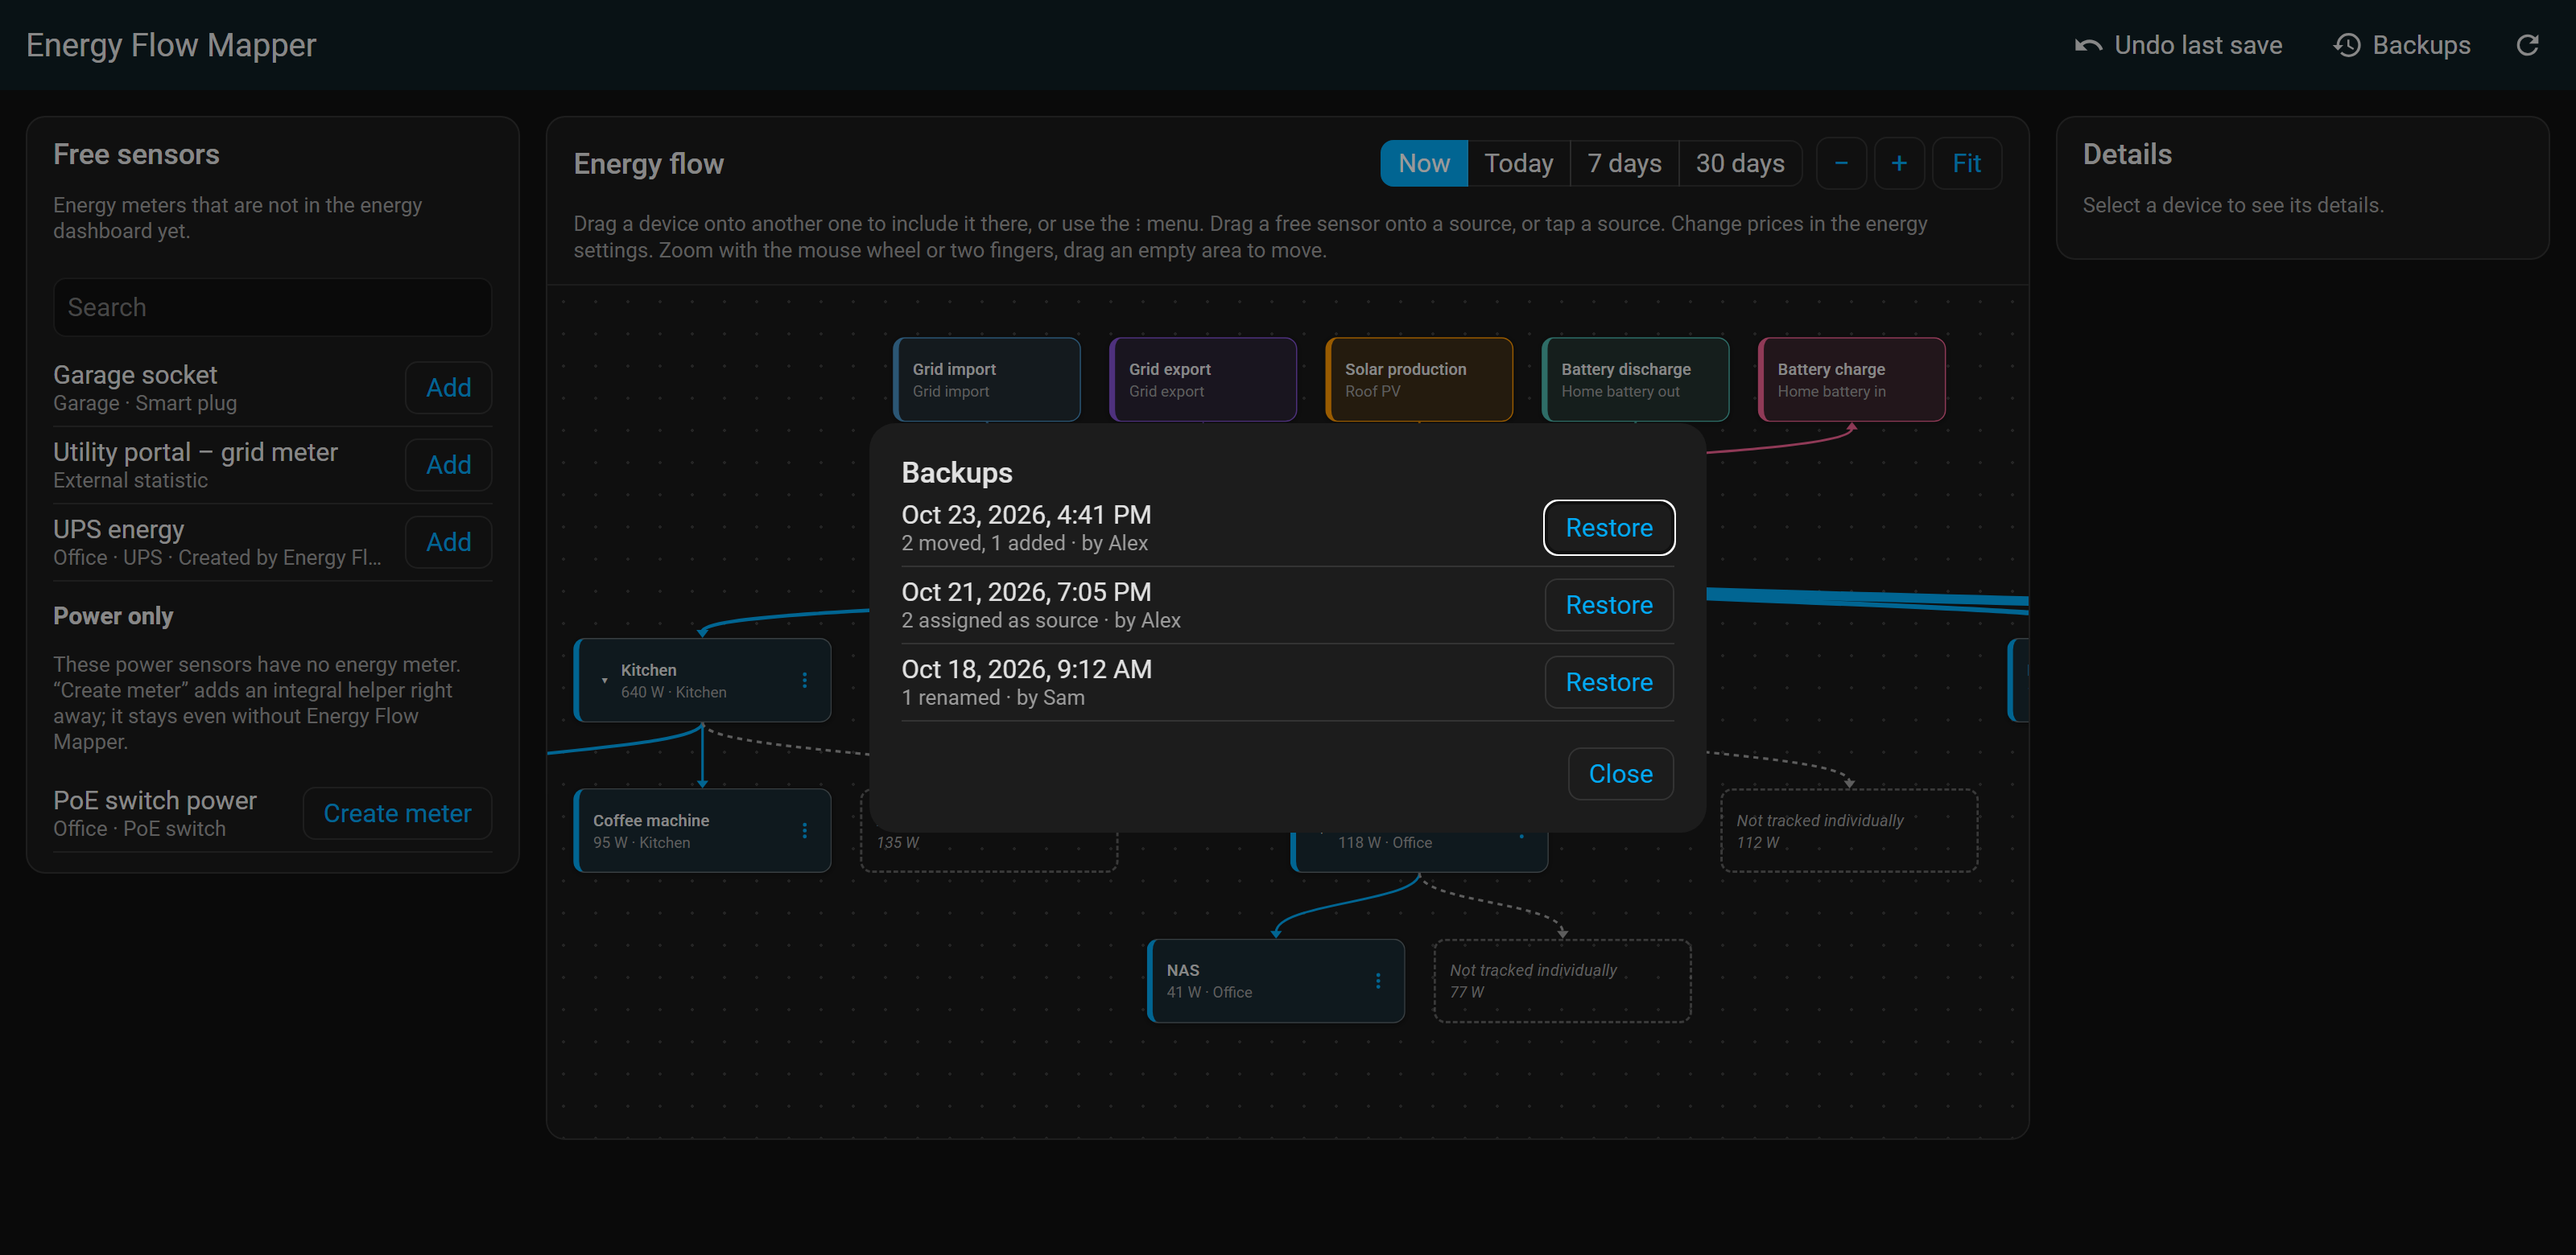
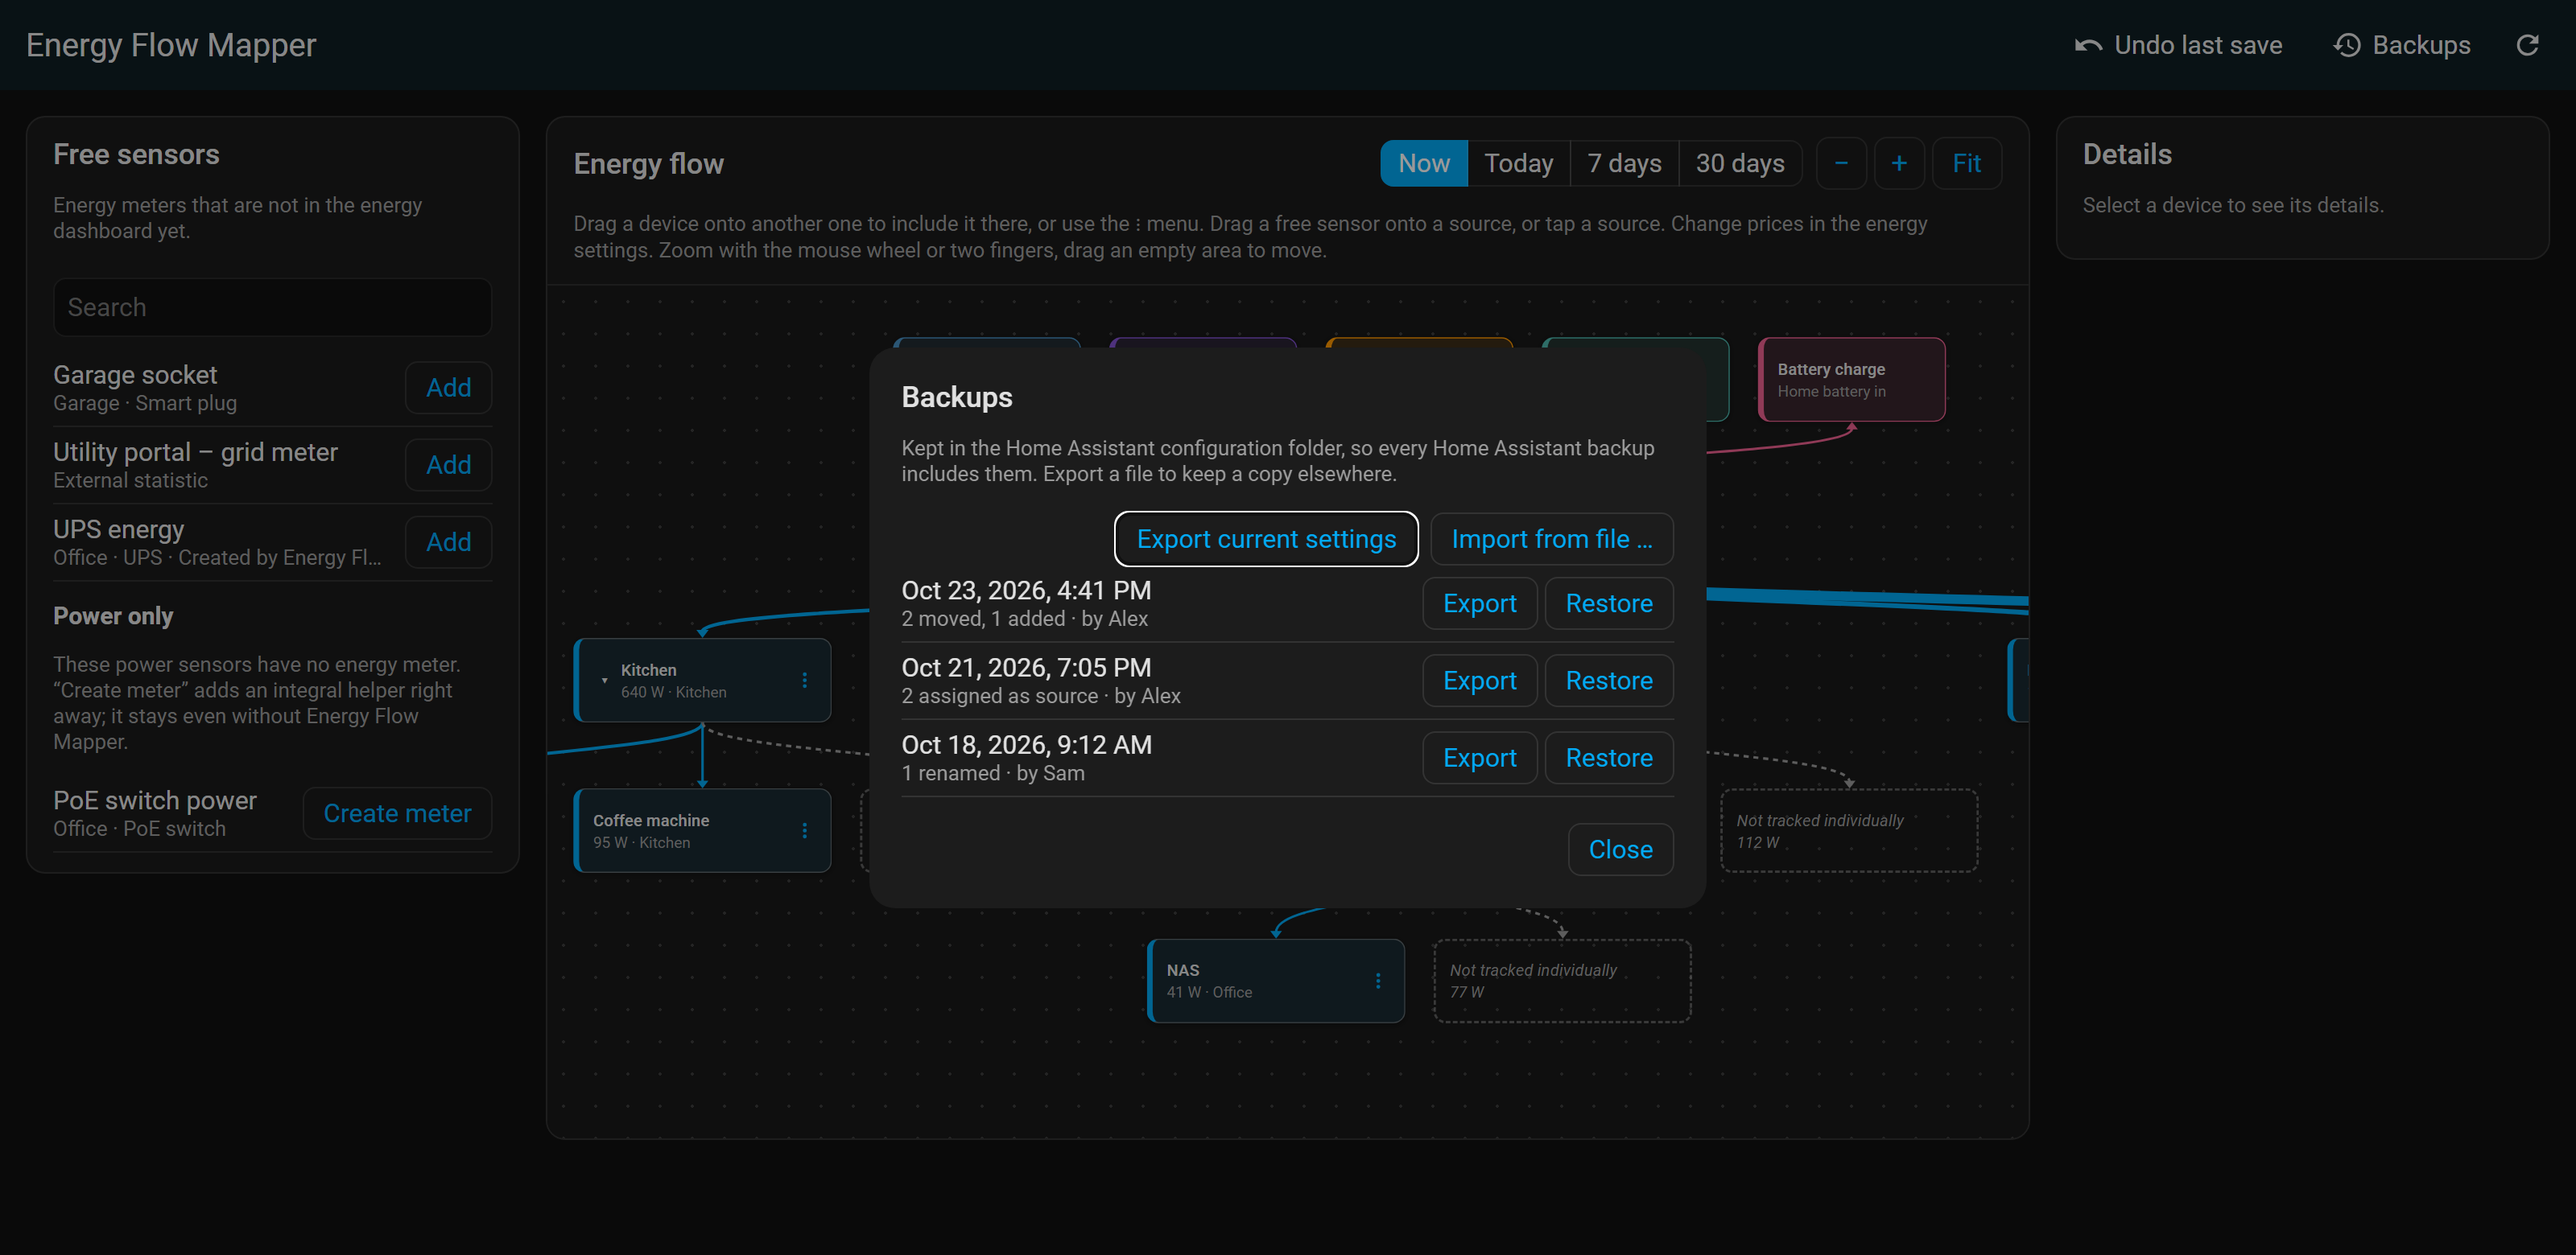
Document backups, export and import

diff --git a/SPEC.md b/SPEC.md
@@ -56,7 +56,8 @@ README-Abgrenzung: «Not another energy card – a visual editor that maps your 
 | Gas- und Wasser-Quellen bearbeiten | Phase 4, nach v0.1.0 (Wunsch des Maintainers vom 2026-10-23); bis dahin nur Anzeige |
 | Nicht erfasster Verbrauch | **Nur im Panel**, keine eigenen Sensoren. Sensoren erst, wenn jemand danach fragt |
 | Plausibilitäts-Warnung | wenn untergeordnete Geräte zusammen **> 5 % und > 0,1 kWh** mehr verbrauchen als das übergeordnete |
-| Sicherungen | die letzten **20** |
+| Sicherungen | Standard die letzten **20**, in den Optionen der Integration **5 bis 100** einstellbar (Wunsch des Maintainers vom 2026-10-24). Ablage fest in `.storage`, **kein** frei wählbarer Speicherort |
+| Export/Import | Aktuelle Einstellungen und jede Sicherung als JSON-Datei exportieren; Import geht durch Prüfung, Bestätigung und Sicherung wie jedes Speichern (2026-10-24) |
 | Mehrere übergeordnete Geräte | **Nicht möglich**, HA erlaubt genau eines (`included_in_stat` ist ein String) |
 
 ---
@@ -285,8 +286,10 @@ Reine Funktionen ohne HA-Imports, Input sind die Listen aus §3.
 
 - Store `.storage/energy_flow_mapper.backups`, `STORAGE_VERSION = 1`.
 - Vor jedem Speichern wird der alte Inhalt der geänderten Schlüssel gesichert, mit Zeitstempel, HA-Benutzer und kurzer Zusammenfassung (z. B. «3 verschoben, 1 hinzugefügt»).
-- Es bleiben die letzten 20 Sicherungen, ältere werden beim Anlegen einer neuen gelöscht.
-- «Rückgängig» im Panel stellt die letzte Sicherung wieder her. Die Liste «Sicherungen» erlaubt jede ältere. Auch das Wiederherstellen legt vorher eine Sicherung an.
+- Es bleiben die letzten 20 Sicherungen (Option `max_backups`, 5–100, Optionen der Integration mit Neuladen des Eintrags). Ältere werden beim Anlegen einer neuen gelöscht; wird die Zahl verkleinert, gleich beim Laden.
+- «Rückgängig» im Panel stellt die letzte Sicherung wieder her. Die Liste «Sicherungen» erlaubt jede ältere. Auch das Wiederherstellen und der Import legen vorher eine Sicherung an.
+- **Kein frei wählbarer Speicherort** (entschieden 2026-10-24): `.storage` wird von HA sicher geschrieben und ist Teil jedes HA-Backups; ein externer Pfad brächte Ausfälle (nicht eingebundenes NAS), Sicherheitsfragen und fehlende Wiederherstellung mit sich. Wer eine Kopie woanders will, exportiert sie.
+- **Export/Import (`transfer.py`):** Datei-Format `{"format": "energy_flow_mapper", "version": 1, "exported", "source": "current" | "backup", "backup"?, "data": {energy_sources?, device_consumption?}}`. Beim Import zählt nur `data`; andere Listen (z. B. Wasser-Geräte) werden abgelehnt. Erst HAs eigene Schemas, dann die Hierarchie-Prüfung, dann Bestätigung im Panel. Sicherung mit Zusammenfassung `{"imported": 1}`.
 - Store-Format-Änderungen nur mit Migration.
 
 ---
@@ -304,6 +307,9 @@ Alle Befehle nur für Admins.
 | `energy_flow_mapper/restore` | `backup_id`, `base_hash` | neuer Hash |
 | `energy_flow_mapper/energy` (Phase 3) | `period` (`today`, `week`, `month`), optional `base_hash` + `changes` | `start`, `end`, `energy` (kWh pro Statistik, `null` ohne Daten), `untracked`, `issues` (Plausibilität) |
 | `energy_flow_mapper/create_integral` (Phase 3) | `power_entity_id`, `name` | `entity_id` des neuen Zählers, `stat_rate` |
+| `energy_flow_mapper/export` | optional `backup_id` | Export-Datei der aktuellen Einstellungen bzw. der Sicherung (§11) |
+| `energy_flow_mapper/import_check` | `base_hash`, `document` | wie `validate`, dazu `changed`; Fehler `invalid_import` bei falschen Dateien |
+| `energy_flow_mapper/import` | `base_hash`, `document` | neuer Hash, ID der Sicherung; oder Fehler `invalid_import` / `invalid_changes` / `rejected_by_home_assistant` / `conflict` |
 
 Fehler kommen mit `translation_key`, damit das Panel sie übersetzt anzeigen kann.
 

diff --git a/README.md b/README.md
@@ -85,8 +85,16 @@ Home Assistant configuration and restart Home Assistant.
 [![Open your Home Assistant instance and start setting up a new integration.](https://my.home-assistant.io/badges/config_flow_start.svg)](https://my.home-assistant.io/redirect/config_flow_start/?domain=energy_flow_mapper)
 
 Settings → Devices & services → **Add integration** → **Energy Flow Mapper** → Submit.
-There is nothing to configure. The setup does not change your energy settings; the panel
-**Energy Flow Mapper** appears in the sidebar for admins.
+The setup does not change your energy settings; the panel **Energy Flow Mapper** appears
+in the sidebar for admins.
+
+### Options
+
+Settings → Devices & services → Energy Flow Mapper → **Configure**:
+
+| Option | Default | Meaning |
+|---|---|---|
+| Backups to keep | 20 | How many backups of your previous energy settings are kept, 5 to 100. If you lower it, the oldest backups beyond the new number are deleted. |
 
 ## Using the panel
 
@@ -101,6 +109,8 @@ There is nothing to configure. The setup does not change your energy settings; t
 | See energy instead of power | Switch *Now* to *Today*, *7 days* or *30 days* |
 | Save | *Save* in the bar at the bottom, check the list of changes, confirm |
 | Go back | *Undo last save* or *Backups* → *Restore* |
+| Keep a copy elsewhere | *Backups* → *Export current settings*, or *Export* next to a backup |
+| Bring a copy back | *Backups* → *Import from file …*, check the list of changes, confirm |
 
 Good to know:
 
@@ -115,13 +125,33 @@ Good to know:
 - If someone changes the energy settings elsewhere while you edit, saving is refused and
   the panel reloads; your draft is kept and checked again.
 
+## Backups
+
+- **When:** before every save, restore and import, Energy Flow Mapper backs up the
+  previous content of the energy settings it changes (sources and/or devices), with the
+  time, the user and a short summary.
+- **Where:** in `/config/.storage/energy_flow_mapper.backups`, next to Home Assistant's own
+  energy settings (`/config/.storage/energy`). Both are part of every **Home Assistant
+  backup**, so to keep them off the device, use a Home Assistant backup location such as a
+  network share or the cloud.
+- **How many:** the last 20 by default; set 5 to 100 in the [options](#options).
+- **Restore:** *Undo last save* restores the newest backup, *Backups* → *Restore* any of
+  them. The current settings are backed up first.
+- **Export:** *Backups* → *Export current settings* downloads the energy sources and
+  devices as a JSON file; *Export* next to a backup downloads that backup. Keep it
+  wherever you like.
+- **Import:** *Backups* → *Import from file …* reads such a file, checks it like a draft
+  (including what Home Assistant itself would reject) and shows the list of changes
+  before anything is written. Only files exported by Energy Flow Mapper are accepted.
+- **Removal:** the backups are deleted with the integration; exported files stay.
+
 ## How it works
 
 - The energy dashboard configuration of Home Assistant stays the single source of truth.
   Energy Flow Mapper reads it fresh, writes it through the same checks as the energy
   settings page and always sends complete lists, so unrelated settings are kept.
-- Backups (the last 20) are stored in `.storage/energy_flow_mapper.backups`, the list of
-  helpers created by the panel in `.storage/energy_flow_mapper.helpers`.
+- Backups are stored in `.storage/energy_flow_mapper.backups` (see [Backups](#backups)),
+  the list of helpers created by the panel in `.storage/energy_flow_mapper.helpers`.
 - The integration has no entities and no devices.
 
 ## Known limitations

diff --git a/CHANGELOG.md b/CHANGELOG.md
@@ -7,6 +7,17 @@ breaking changes; they are marked as **Breaking**.
 
 ## [Unreleased]
 
+### Added
+
+- Option "Backups to keep" (5 to 100, default 20) under Settings → Devices & services →
+  Energy Flow Mapper → Configure.
+- Export of the current energy sources and devices, or of any backup, as a JSON file from
+  the Backups dialog.
+- Import of such a file: it is checked like a draft, the changes are shown for
+  confirmation, and the current settings are backed up first.
+- README section about where backups are kept and how they get into Home Assistant
+  backups.
+
 ## [0.1.0] - 2026-10-23
 
 First public beta.
